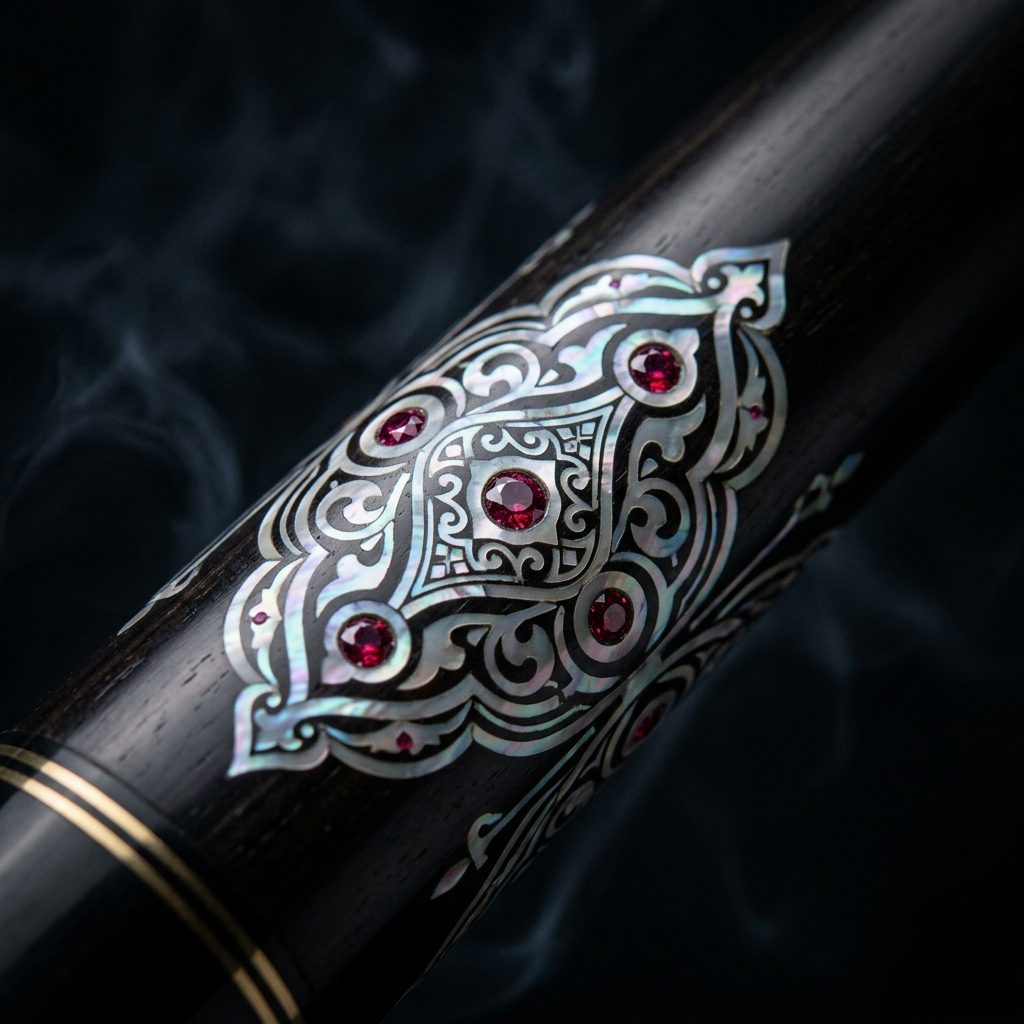
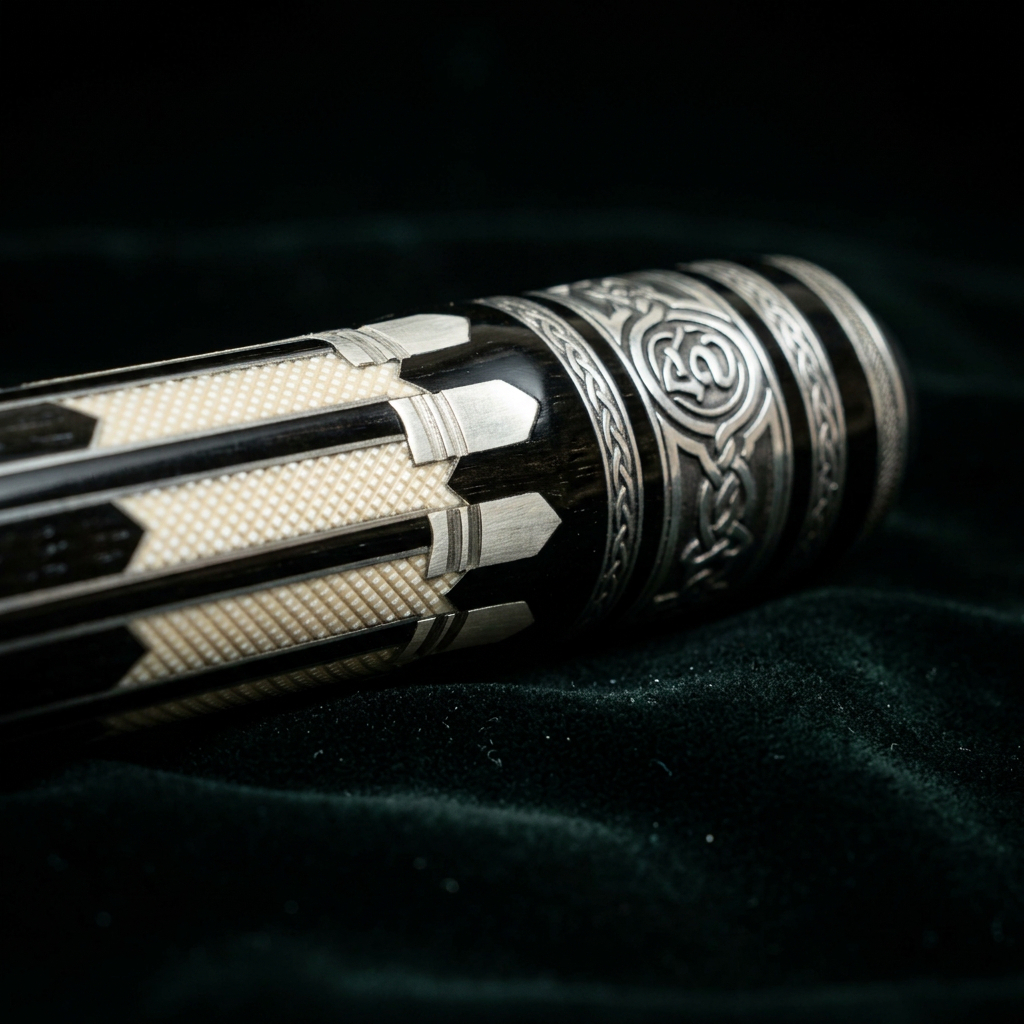
Главная и Бренд: заголовок, eyebrow, инстаграм, картинки принципов
- Герой: заголовок всегда в 2 строки во всех языках, золотое слово
  по центру; полоски eyebrow с двух сторон (адаптив под узкие экраны)
- Инстаграм-ссылки приведены к каноничному www-формату
- Раздел «Принципы» (about): новые картинки «26 лет», «Эксклюзив»,
  «Выбор чемпионов» с индивидуальным зумом и кадрированием

diff --git a/css/style.css b/css/style.css
@@ -103,6 +103,16 @@ h2 { font-size: clamp(34px, 5.5vw, 60px); }
   height: 3px;
   background: var(--gold);
   opacity: .8;
+  flex-shrink: 0;
+}
+/* герой: полоска с двух сторон от текста */
+.hero .eyebrow::after {
+  content: "";
+  width: 28px;
+  height: 3px;
+  background: var(--accent-gold);
+  opacity: .8;
+  flex-shrink: 0;
 }
 .eyebrow.center { justify-content: center; }
 /* эйбрау на тёмных секциях (герой, футер, page-head) — золотой акцент.
@@ -625,6 +635,7 @@ body:has(> main > .page-head) { padding-top: 0; }
   margin: 26px 0 0;
 }
 .hero h1 em {
+  display: block;               /* акцентное слово всегда с новой строки — во всех языках */
   font-style: italic;
   color: var(--accent-gold);
 }
@@ -1663,6 +1674,14 @@ body:has(> main > .page-head) { padding-top: 0; }
   transition: transform .6s var(--ease);
 }
 .info-card:hover .info-card__media img { transform: scale(1.045); }
+/* эксклюзив: небольшой зум (кий не влезает целиком) + кадр опущен ниже */
+.info-card__media--zoom img { transform: scale(1.18) translateY(6%); }
+.info-card:hover .info-card__media--zoom img { transform: scale(1.22) translateY(6%); }
+/* 26 лет в ремесле: картинка прижата к низу — виден низ киёв, обрезается верх */
+.info-card__media--zoom-in img { object-position: bottom; }
+/* выбор чемпионов: сильный зум на кубок + кадр опущен, чтобы было видно основание */
+.info-card__media--zoom-champ img { transform: scale(1.55) translateY(-8%); }
+.info-card:hover .info-card__media--zoom-champ img { transform: scale(1.6) translateY(-8%); }
 .info-card h3 { font-size: 23px; margin-bottom: 10px; }
 .info-card p {
   font-size: 14.5px; color: var(--txt-mut);
@@ -1805,6 +1824,12 @@ body:has(> main > .page-head) { padding-top: 0; }
 @media (max-width: 760px) {
   body { font-size: 16px; padding-top: 68px; }
   body[data-page="home"] { padding-top: 0; }
+  /* герой: полоски с двух сторон. Текст (слова и кегль) не меняем —
+     чтобы всё влезало в одну строку, слегка уплотняем трекинг и укорачиваем
+     полоски. На совсем узких экранах полоски ещё короче. */
+  .hero .eyebrow { gap: 10px; letter-spacing: 0.12em; }
+  .hero .eyebrow::before,
+  .hero .eyebrow::after { width: 14px; }
   /* шаги апгрейда: в 2 колонки, кнопка во всю ширину */
   .steps { grid-template-columns: 1fr 1fr; }
   .steps-cta { justify-content: stretch; }
@@ -2589,3 +2614,10 @@ body:has(.header--hidden) .catalog-jump { top: 24px; }
 }
 
 
+
+/* герой: на совсем узких экранах полоски у eyebrow ещё короче */
+@media (max-width: 360px) {
+  .hero .eyebrow { gap: 8px; letter-spacing: 0.08em; }
+  .hero .eyebrow::before,
+  .hero .eyebrow::after { width: 10px; }
+}

diff --git a/about.html b/about.html
@@ -61,17 +61,17 @@
     <div class="wrap reveal">
       <div class="info-cards">
         <div class="info-card">
-          <span class="info-card__media"><img src="img/decor/value-craft.jpg" alt="Ряд авторских бильярдных киёв ручной работы" loading="lazy"></span>
+          <span class="info-card__media info-card__media--zoom-in"><img src="img/decor/value-craft.jpg" alt="Ряд авторских бильярдных киёв ручной работы" loading="lazy"></span>
           <h3>26 лет в ремесле</h3>
           <p>С 2000 года и неизменный состав мастеров. Опыт, который чувствуется в каждом ударе.</p>
         </div>
         <div class="info-card">
-          <span class="info-card__media"><img src="img/decor/value-exclusive.jpg" alt="Инкрустация кия серебром и камнями" loading="lazy"></span>
+          <span class="info-card__media info-card__media--zoom"><img src="img/decor/value-exclusive.jpg" alt="Инкрустация кия серебром и камнями" loading="lazy"></span>
           <h3>Эксклюзив</h3>
           <p>Инкрустация серебром, перламутром и камнями. Каждый кий — в единственном экземпляре.</p>
         </div>
         <div class="info-card">
-          <span class="info-card__media"><img src="img/decor/value-champions.jpg" alt="Турнирный кубок на бильярдном столе" loading="lazy" style="object-position:center 80%"></span>
+          <span class="info-card__media info-card__media--zoom-champ"><img src="img/decor/value-champions.jpg" alt="Турнирный кубок на бильярдном столе" loading="lazy"></span>
           <h3>Выбор чемпионов</h3>
           <p>Нашими киями выигрывают чемпионаты мира, Европы и Украины.</p>
         </div>

diff --git a/en/about.html b/en/about.html
@@ -61,17 +61,17 @@
     <div class="wrap reveal">
       <div class="info-cards">
         <div class="info-card">
-          <span class="info-card__media"><img src="../img/decor/value-craft.jpg" alt="A row of signature handcrafted billiard cues" loading="lazy"></span>
+          <span class="info-card__media info-card__media--zoom-in"><img src="../img/decor/value-craft.jpg" alt="A row of signature handcrafted billiard cues" loading="lazy"></span>
           <h3>26 years in the craft</h3>
           <p>Since 2000, with the same team of craftsmen throughout. Experience you can feel in every stroke.</p>
         </div>
         <div class="info-card">
-          <span class="info-card__media"><img src="../img/decor/value-exclusive.jpg" alt="Cue inlay in silver and gemstones" loading="lazy"></span>
+          <span class="info-card__media info-card__media--zoom"><img src="../img/decor/value-exclusive.jpg" alt="Cue inlay in silver and gemstones" loading="lazy"></span>
           <h3>Exclusive</h3>
           <p>Inlay in silver, mother-of-pearl and gemstones. Every cue is one of a kind.</p>
         </div>
         <div class="info-card">
-          <span class="info-card__media"><img src="../img/decor/value-champions.jpg" alt="A tournament trophy on a billiard table" loading="lazy" style="object-position:center 80%"></span>
+          <span class="info-card__media info-card__media--zoom-champ"><img src="../img/decor/value-champions.jpg" alt="A tournament trophy on a billiard table" loading="lazy"></span>
           <h3>The choice of champions</h3>
           <p>Our cues win world, European and Ukrainian championships.</p>
         </div>

diff --git a/uk/about.html b/uk/about.html
@@ -61,17 +61,17 @@
     <div class="wrap reveal">
       <div class="info-cards">
         <div class="info-card">
-          <span class="info-card__media"><img src="../img/decor/value-craft.jpg" alt="Ряд авторських більярдних київ ручної роботи" loading="lazy"></span>
+          <span class="info-card__media info-card__media--zoom-in"><img src="../img/decor/value-craft.jpg" alt="Ряд авторських більярдних київ ручної роботи" loading="lazy"></span>
           <h3>26 років у ремеслі</h3>
           <p>З 2000 року і незмінний склад майстрів. Досвід, який відчувається в кожному ударі.</p>
         </div>
         <div class="info-card">
-          <span class="info-card__media"><img src="../img/decor/value-exclusive.jpg" alt="Інкрустація кия сріблом і камінням" loading="lazy"></span>
+          <span class="info-card__media info-card__media--zoom"><img src="../img/decor/value-exclusive.jpg" alt="Інкрустація кия сріблом і камінням" loading="lazy"></span>
           <h3>Ексклюзив</h3>
           <p>Інкрустація сріблом, перламутром і камінням. Кожен кий — в єдиному екземплярі.</p>
         </div>
         <div class="info-card">
-          <span class="info-card__media"><img src="../img/decor/value-champions.jpg" alt="Турнірний кубок на більярдному столі" loading="lazy" style="object-position:center 80%"></span>
+          <span class="info-card__media info-card__media--zoom-champ"><img src="../img/decor/value-champions.jpg" alt="Турнірний кубок на більярдному столі" loading="lazy"></span>
           <h3>Вибір чемпіонів</h3>
           <p>Нашими києм вигравають чемпіонати світу, Європи та України.</p>
         </div>

diff --git a/contacts.html b/contacts.html
@@ -87,7 +87,7 @@
             <div class="contact-item">
               <div class="lbl">Соцсети</div>
               <div class="social-grid" style="margin-top:10px">
-                <a class="btn btn--ghost" href="https://instagram.com/as.cuesstore" target="_blank" rel="noopener">Instagram</a>
+                <a class="btn btn--ghost" href="https://www.instagram.com/as.cuesstore/" target="_blank" rel="noopener">Instagram</a>
                 <a class="btn btn--ghost" href="https://facebook.com/as.cuesstore" target="_blank" rel="noopener">Facebook</a>
               </div>
             </div>

diff --git a/en/contacts.html b/en/contacts.html
@@ -87,7 +87,7 @@
             <div class="contact-item">
               <div class="lbl">Social media</div>
               <div class="social-grid" style="margin-top:10px">
-                <a class="btn btn--ghost" href="https://instagram.com/as.cuesstore" target="_blank" rel="noopener">Instagram</a>
+                <a class="btn btn--ghost" href="https://www.instagram.com/as.cuesstore/" target="_blank" rel="noopener">Instagram</a>
                 <a class="btn btn--ghost" href="https://facebook.com/as.cuesstore" target="_blank" rel="noopener">Facebook</a>
               </div>
             </div>

diff --git a/en/index.html b/en/index.html
@@ -183,7 +183,7 @@
           <a class="chip" href="https://wa.me/[phone redacted]" target="_blank" rel="noopener">WhatsApp</a>
           <a class="chip" href="https://t.me/[phone redacted]" target="_blank" rel="noopener">Telegram</a>
           <a class="chip" href="viber://chat?number=%2B380985114275">Viber</a>
-          <a class="chip" href="https://instagram.com/as.cuesstore" target="_blank" rel="noopener">Instagram</a>
+          <a class="chip" href="https://www.instagram.com/as.cuesstore/" target="_blank" rel="noopener">Instagram</a>
         </div>
       </div>
     </div>

diff --git a/index.html b/index.html
@@ -183,7 +183,7 @@
           <a class="chip" href="https://wa.me/[phone redacted]" target="_blank" rel="noopener">WhatsApp</a>
           <a class="chip" href="https://t.me/[phone redacted]" target="_blank" rel="noopener">Telegram</a>
           <a class="chip" href="viber://chat?number=%2B380985114275">Viber</a>
-          <a class="chip" href="https://instagram.com/as.cuesstore" target="_blank" rel="noopener">Instagram</a>
+          <a class="chip" href="https://www.instagram.com/as.cuesstore/" target="_blank" rel="noopener">Instagram</a>
         </div>
       </div>
     </div>

diff --git a/js/layout.js b/js/layout.js
@@ -146,7 +146,7 @@
           <div class="footer__social" aria-label="${t('Мы в соцсетях')}">
             <span class="footer__social-label">${t('Соцсети')}</span>
             <div class="footer__social-icons">
-              <a href="https://instagram.com/as.cuesstore" target="_blank" rel="noopener" aria-label="Instagram">
+              <a href="https://www.instagram.com/as.cuesstore/" target="_blank" rel="noopener" aria-label="Instagram">
                 <svg viewBox="0 0 24 24" width="28" height="28" fill="none" aria-hidden="true"><rect x="3" y="3" width="18" height="18" rx="5" stroke="currentColor" stroke-width="1.6"/><circle cx="12" cy="12" r="4" stroke="currentColor" stroke-width="1.6"/><circle cx="17.2" cy="6.8" r="1.2" fill="currentColor"/></svg>
               </a>
               <a href="https://facebook.com/as.cuesstore" target="_blank" rel="noopener" aria-label="Facebook">

diff --git a/uk/contacts.html b/uk/contacts.html
@@ -87,7 +87,7 @@
             <div class="contact-item">
               <div class="lbl">Соцмережі</div>
               <div class="social-grid" style="margin-top:10px">
-                <a class="btn btn--ghost" href="https://instagram.com/as.cuesstore" target="_blank" rel="noopener">Instagram</a>
+                <a class="btn btn--ghost" href="https://www.instagram.com/as.cuesstore/" target="_blank" rel="noopener">Instagram</a>
                 <a class="btn btn--ghost" href="https://facebook.com/as.cuesstore" target="_blank" rel="noopener">Facebook</a>
               </div>
             </div>

diff --git a/uk/index.html b/uk/index.html
@@ -183,7 +183,7 @@
           <a class="chip" href="https://wa.me/[phone redacted]" target="_blank" rel="noopener">WhatsApp</a>
           <a class="chip" href="https://t.me/[phone redacted]" target="_blank" rel="noopener">Telegram</a>
           <a class="chip" href="viber://chat?number=%2B380985114275">Viber</a>
-          <a class="chip" href="https://instagram.com/as.cuesstore" target="_blank" rel="noopener">Instagram</a>
+          <a class="chip" href="https://www.instagram.com/as.cuesstore/" target="_blank" rel="noopener">Instagram</a>
         </div>
       </div>
     </div>